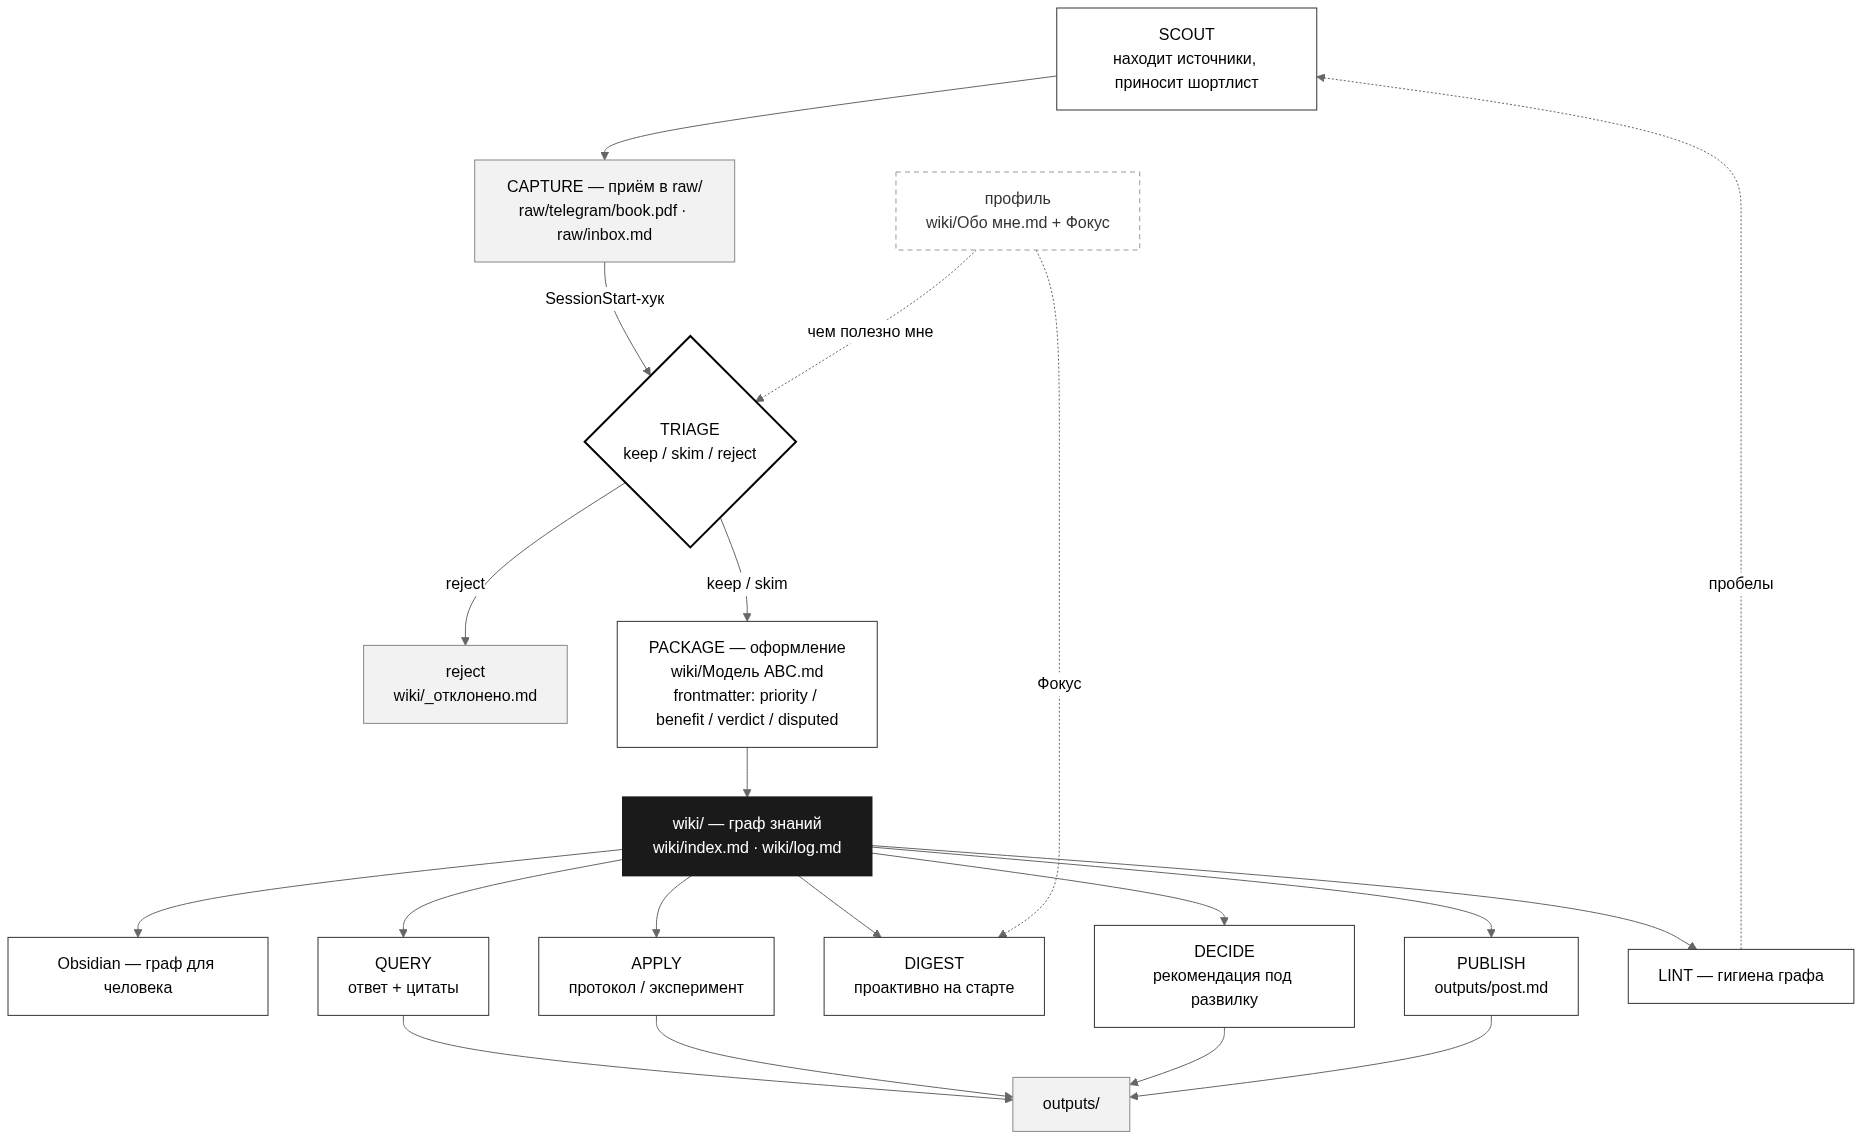
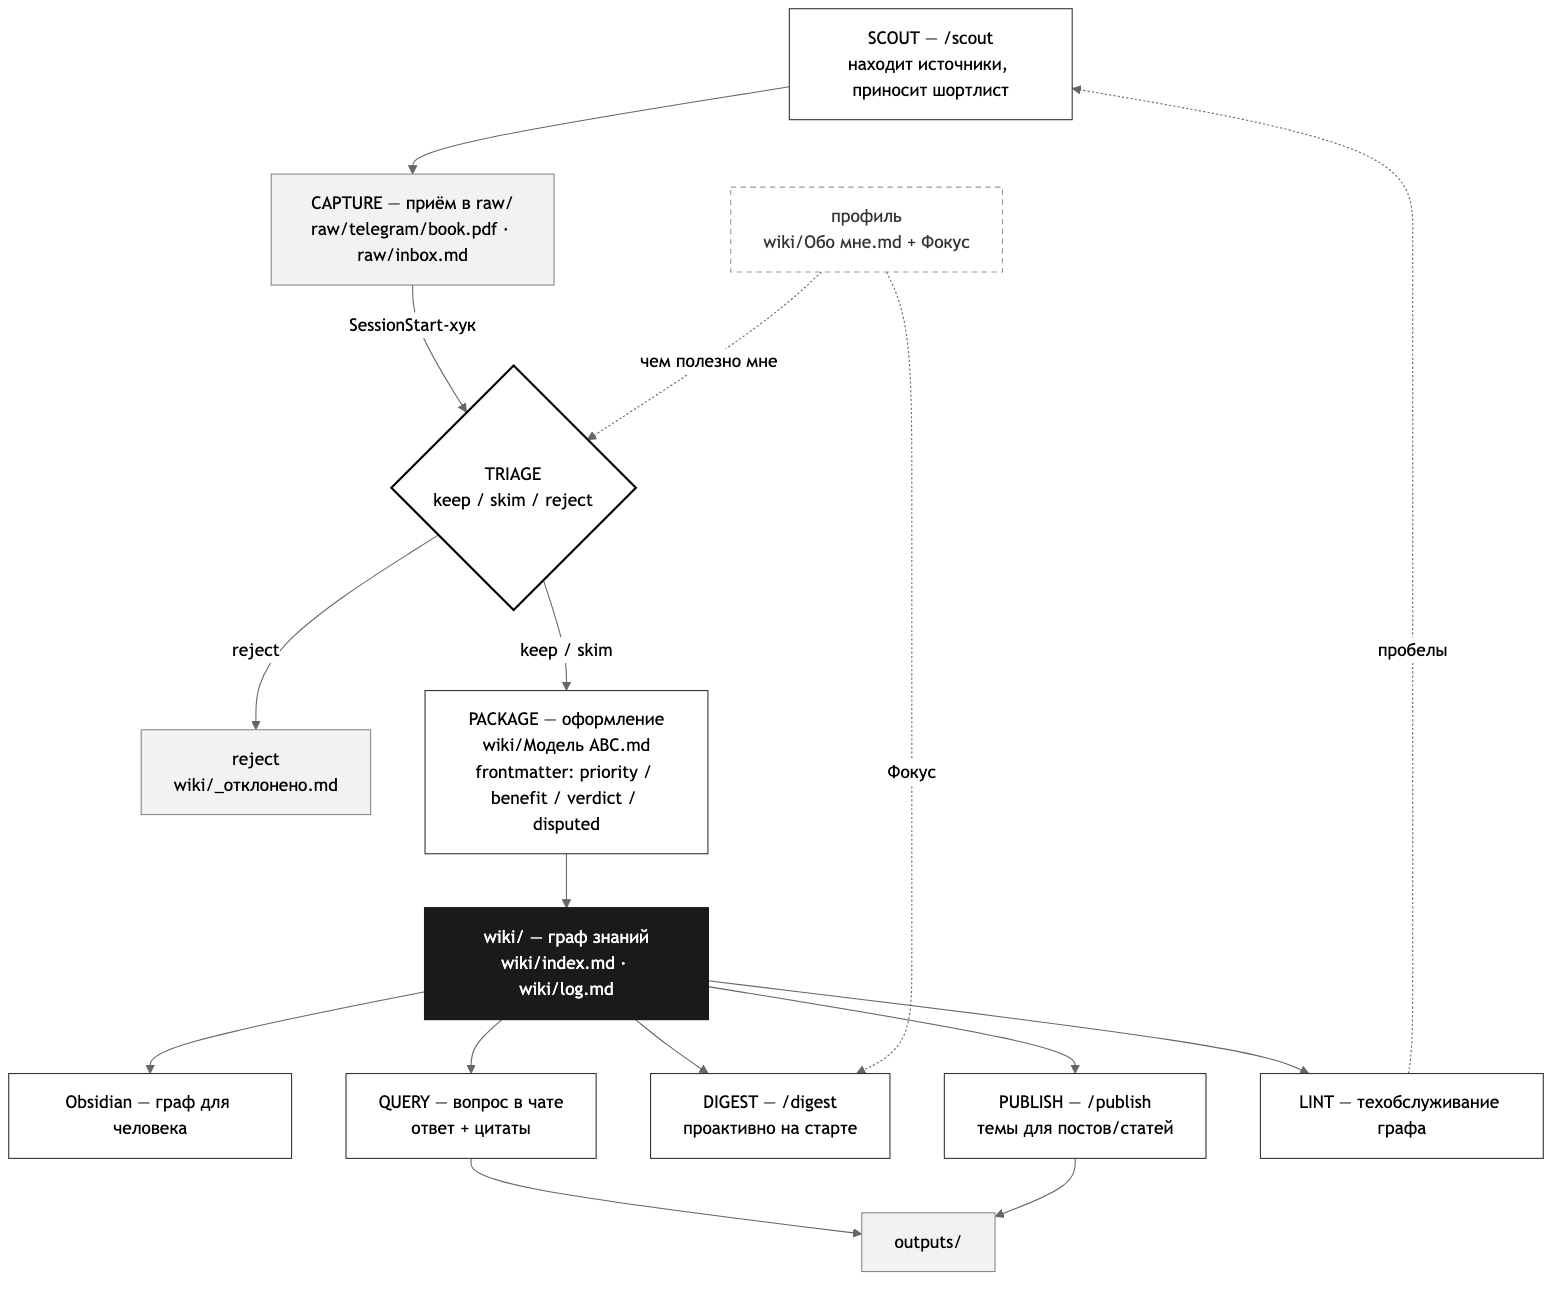
polish: README как витрина — таблица пяти жестов, свежая схема, структура .claude/
pipeline.png/svg перегенерированы (mermaid-cli), схема README синхронизирована
с pipeline.mmd — команды видны на узлах. «Пять жестов» оформлены таблицей
с деталями механики (изоляция Scout, граница Publish/tg-post). Раздел
«Автоматизация» показывает hooks/commands/agents. Варнинг о канон-пути сжат,
из стека убрана версия модели. Пустые случайные файлы корня удалены.

diff --git a/README.md b/README.md
@@ -4,8 +4,7 @@
 
 Построена по паттерну [LLM Knowledge Base Андрея Карпаты](https://gist.github.com/karpathy/442a6bf555914893e9891c11519de94f). Открывается как **Obsidian vault**. Приватный git-репозиторий.
 
-> ⚠️ **Единственный источник — эта папка: `~/Documents/second-brain`.**
-> Ровно один локальный vault, и он же пушится на GitHub (`origin` → `github.com/cryptoyoginya/second-brain`). Никаких копий в других местах: если где-то ещё встретилась папка `second-brain` — это не источник, открывать в Obsidian и редактировать нужно **только** эту. Поток один: правишь здесь → `git push` на GitHub.
+> ⚠️ **Канон один:** локальный vault `~/Documents/second-brain` → `git push` на GitHub. Копий не существует.
 
 ### Суть
 
@@ -55,7 +54,7 @@ Obsidian), ведёт каталог `wiki/index.md` и журнал `wiki/log.m
 ```mermaid
 %%{init: {'theme':'neutral'}}%%
 flowchart TD
-    SCOUT["SCOUT<br/>находит источники, приносит шортлист"]
+    SCOUT["SCOUT — /scout<br/>находит источники, приносит шортлист"]
     CAPTURE["CAPTURE — приём в raw/<br/>raw/telegram/book.pdf · raw/inbox.md"]
     TRIAGE{"TRIAGE<br/>keep / skim / reject"}
     REJECT["reject<br/>wiki/_отклонено.md"]
@@ -63,11 +62,11 @@ flowchart TD
     WIKI["wiki/ — граф знаний<br/>wiki/index.md · wiki/log.md"]
     OBS["Obsidian — граф для человека"]
     PROFILE["профиль<br/>wiki/Обо мне.md + Фокус"]
-    QUERY["QUERY<br/>ответ + цитаты"]
-    DIGEST["DIGEST<br/>проактивно на старте"]
-    PUBLISH["PUBLISH<br/>темы для постов/статей"]
+    QUERY["QUERY — вопрос в чате<br/>ответ + цитаты"]
+    DIGEST["DIGEST — /digest<br/>проактивно на старте"]
+    PUBLISH["PUBLISH — /publish<br/>темы для постов/статей"]
     OUT["outputs/"]
-    LINT["LINT — гигиена графа"]
+    LINT["LINT — техобслуживание графа"]
 
     SCOUT --> CAPTURE
     CAPTURE -->|"SessionStart-хук"| TRIAGE
@@ -100,12 +99,21 @@ flowchart TD
 Скачать схему: [PNG](assets/pipeline.png) · [SVG](assets/pipeline.svg) (векторный, для печати/больших размеров). Исходник — [`assets/pipeline.mmd`](assets/pipeline.mmd).
 
 Пайплайн: **scout → capture → triage → package → [query · digest · publish] → lint**.
-Интерфейс — пять жестов: **кинула → само · вопрос → ответ · `/digest` · `/scout` · `/publish`**.
-- **Scout** (`/scout <тема>`, вебсёрч в изолированном субагенте `scout-researcher` — сырые выдачи не засоряют сессию): приношу top-grade источники разных форматов (эссе, статьи-первоисточники, книги, лекции) под профиль и Фокус; ты выбираешь.
-- **Query** (просто вопрос в чате, RAG по вики): ответ из твоих знаний со ссылками на страницы.
-- **Digest** (`/digest`): учебная сводка по базе — 5 последних изученных тем (со ссылками), что давно не повторяла, что было бы интересно изучить дальше.
-- **Publish** (`/publish`, RAG по вики): предлагаю темы для постов/статей с опорой на твои страницы. Написание поста — отдельный скилл `/tg-post`; публикуешь сама.
-- **Lint:** техобслуживание графа: противоречия, страницы-сироты, пробелы.
+
+### Интерфейс — пять жестов
+
+| Жест | Что происходит | Данные |
+|---|---|---|
+| **кинула** файл / ссылку / мысль | ingest: триаж по профилю → связные страницы в графе (авто) | моя база |
+| **вопрос** в чате | Query: ответ из моих выверенных знаний, с цитатами | моя база (RAG) |
+| **`/digest`** | 5 последних изученных тем · забытое для повтора · что изучить дальше | база + скаут |
+| **`/scout <тема>`** | top-grade шортлист источников: эссе, первоисточники, книги, лекции | вебсёрч |
+| **`/publish [тема]`** | темы для постов/статей с опорой на конкретные страницы | моя база (RAG) |
+
+Детали механики:
+- **Scout** работает в **изолированном субагенте** `scout-researcher`: сырые поисковые выдачи остаются в его контексте, в сессию возвращается только курированный шортлист. Планка качества и стоп-фильтр мусора зашиты в агента.
+- **Publish** пост не пишет — только темы; написание в голосе автора делает отдельный скилл `/tg-post`, публикация всегда за человеком.
+- **Lint** — техобслуживание графа (раз в месяц): противоречия, страницы-сироты, пробелы.
 
 Система **подстраивается под твой «Фокус»**: ручной список «что важно сейчас» (правишь когда угодно) перевешивает долгосрочные интересы; авто-наблюдения только подсказывают.
 
@@ -136,8 +144,10 @@ flowchart TD
 | `wiki/` | вики связанных идей | агент | агент владеет полностью; точка входа — `index.md` |
 | `outputs/` | отчёты, ответы | агент | можно вернуть в `wiki/` |
 
-**Автоматизация:** `SessionStart`-хук `.claude/hooks/ingest-scan.sh` при каждом старте сканирует
-`raw/`, находит источники без страниц в `wiki/` и ставит агенту задачу. Запускать ingest вручную не нужно.
+**Автоматизация (`.claude/`):**
+- `hooks/ingest-scan.sh` — `SessionStart`-хук: на каждом старте сканирует `raw/`, находит источники без страниц в `wiki/` и сам ставит агенту задачу ingest. Вручную ничего запускать не нужно.
+- `commands/` — slash-команды `/digest`, `/scout`, `/publish` (интерфейс пяти жестов).
+- `agents/scout-researcher.md` — изолированный веб-разведчик для Scout (свой контекст, только поиск/чтение, писать в вики не может).
 
 ---
 
@@ -149,7 +159,7 @@ flowchart TD
 |-----------|---------|------|------------|
 | **Markdown + Git** | плоский текст + версионирование | формат хранения вики | переносимо; версии, дифы и откат бесплатно; база читается чем угодно |
 | **Obsidian** | локальный редактор + граф | как человек читает знания | local-first; `[[ссылки]]` рисуют граф; frontmatter виден как Properties |
-| **Claude Code** | агентный CLI (Opus 4.8) | строит и курирует: ingest, index/log, хук-автоматизация | агент с доступом к файлам и шеллу реально пишет вики, а не только советует |
+| **Claude Code** | агентный CLI | строит и курирует: ingest, index/log, хуки, субагенты, slash-команды | агент с доступом к файлам и шеллу реально пишет вики, а не только советует |
 | **Claude (зрение+текст)** | LLM | читает источники, рассуждает, пишет страницы | синтез и связи между идеями; скриншоты читает напрямую зрением |
 | **PyPDF2** | извлечение текста из PDF | текст-слой книг для ingest | лёгкая зависимость, работает с локальным Python |
 | **YAML frontmatter** | метаданные страниц | `priority / benefit / verdict / disputed` + `type / domain` | курирование машинно-читаемо и видно в Obsidian |

diff --git a/wiki/log.md b/wiki/log.md
@@ -31,3 +31,4 @@
 ## [2026-07-20] design | Архитектура сведена к пятёрке Кристины: «кидаю что изучаю → 0) фильтр по личности 1) Obsidian 2) ответы на вопросы 3) Scout 4) темы для постов». 0·1·2·4 — RAG только по вики, 3 — вебсёрч. Пайплайн: **ingest · query · scout · digest · publish** + Lint как техобслуживание. Убраны операции Apply и Decide (по запросу — обычный Query). Publish переопределён: **предлагает темы** для постов/статей из базы (со страницами-опорами), пост НЕ пишет — написание делает скилл /tg-post (вне пайплайна). Заведены slash-команды `.claude/commands/`: **/digest** (5 тем · забытое · что изучить), **/scout <тема>** (вебсёрч-шортлист), **/publish [тема]** (темы из базы). Query — просто вопрос в чате, Ingest — авто (хук). Обновлены: CLAUDE.md (таблица «пять жестов», операции), README (пайплайн, mermaid без APPLY/DECIDE, петля, user-stories), USER-STORIES (принцип = пятёрка, перенумерация: Digest 5, Scout 6, Publish 7, Lint 8), assets/pipeline.mmd. ⚠️ pipeline.png/svg не перегенерированы (mmdc не установлен) — устарели, перегенерить при случае.
 ## [2026-07-20] infra | Scout изолирован в субагента: заведён `.claude/agents/scout-researcher.md` (tools: WebSearch/WebFetch/Read — свой чистый контекст, перелопачивает выдачи у себя, возвращает только курированный шортлист; паттерн «bring much, return little», как tg-factcheck в скилле поста). Команда `/scout` переписана: веб-поиск в основной сессии запрещён, всегда делегируется scout-researcher. Жёсткий граундинг и скепсис (⚠️ хайп) прописаны в агенте.
 ## [2026-07-20] sync | Аудит актуальности репо: (1) канон-путь исправлен `~/Desktop` → `~/Documents/second-brain` в CLAUDE.md и README (репо переехал раньше, доки отставали); (2) изоляция Scout и планка top-grade дописаны в CLAUDE.md (операция Scout) и README; (3) закоммичено переименование Кристины [[Конспект технический фундамент продакт-инженера]] → [[Фундамент продакт-инженера]] (Obsidian сам обновил index, вручную починены 2 ссылки в Дашборде). Не тронуто: файлы в корне `2026-07-07.md`, `Без названия.base`, `Без названия 1.canvas` (её эксперименты с Obsidian Bases/Canvas — решить: занести или удалить), pipeline.png/svg всё ещё старые (нет mmdc).
+## [2026-07-20] polish | Репо доведён до витринного состояния («актуален и красив, для общественности»): (1) pipeline.png/svg перегенерированы через npx mermaid-cli — теперь соответствуют актуальному пайплайну с командами на узлах; (2) встроенная mermaid-схема README синхронизирована с assets/pipeline.mmd; (3) «пять жестов» оформлены таблицей + блок «детали механики» (изоляция Scout, граница Publish/tg-post, Lint); (4) раздел «Автоматизация» расширен структурой `.claude/` (hooks/commands/agents); (5) варнинг о канон-пути сжат до одной строки; (6) из стека убрана прибиваемая версия модели; (7) удалены пустые случайные файлы корня (2026-07-07.md — 0 байт, Без названия.base — дефолтный, Без названия 1.canvas — «{}»). Битые ссылки README проверены — нет.